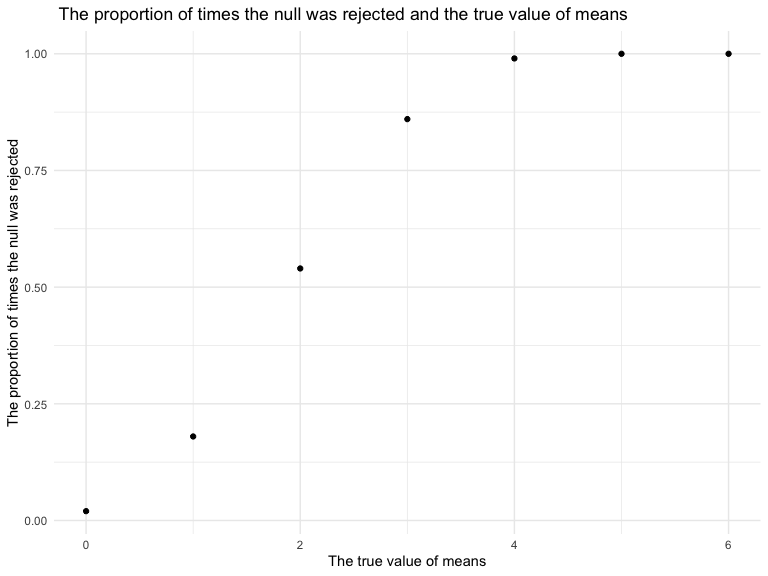
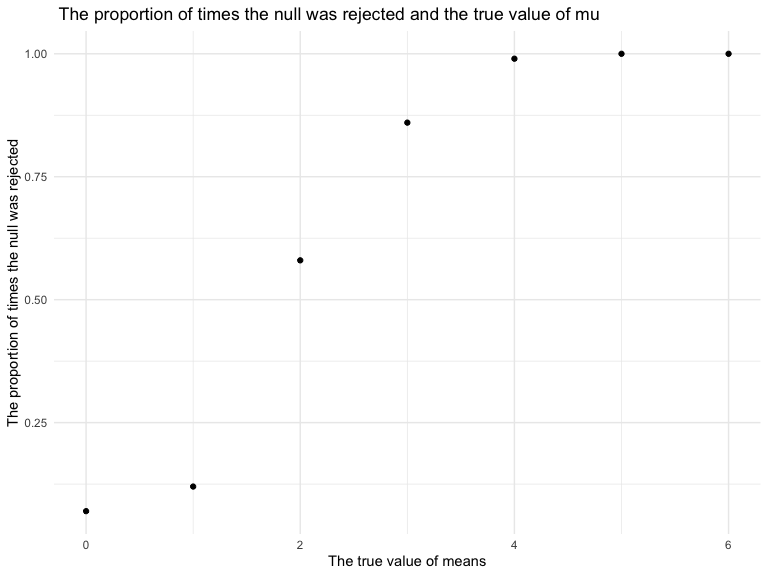
create plot of the average estimate of mu_hat and the true value of mu.

diff --git a/p8105_hw5_yc4016.md b/p8105_hw5_yc4016.md
@@ -197,16 +197,16 @@ norm_results
     ## # A tibble: 700 × 10
     ##       mu iterat…¹ estim…² stati…³ p.value param…⁴ conf.…⁵ conf.…⁶ method alter…⁷
     ##    <dbl>    <int>   <dbl>   <dbl>   <dbl>   <dbl>   <dbl>   <dbl> <chr>  <chr>  
-    ##  1     0        1  0.0498  0.0553   0.956      29  -1.79    1.89  One S… two.si…
-    ##  2     0        2 -0.243  -0.222    0.826      29  -2.49    2.00  One S… two.si…
-    ##  3     0        3 -1.34   -1.46     0.156      29  -3.22    0.541 One S… two.si…
-    ##  4     0        4  0.652   0.818    0.420      29  -0.979   2.28  One S… two.si…
-    ##  5     0        5 -1.04   -1.25     0.220      29  -2.73    0.654 One S… two.si…
-    ##  6     0        6 -0.427  -0.352    0.728      29  -2.91    2.06  One S… two.si…
-    ##  7     0        7  0.585   0.551    0.586      29  -1.59    2.76  One S… two.si…
-    ##  8     0        8 -0.492  -0.548    0.588      29  -2.33    1.34  One S… two.si…
-    ##  9     0        9 -0.653  -0.803    0.428      29  -2.31    1.01  One S… two.si…
-    ## 10     0       10 -0.0225 -0.0239   0.981      29  -1.95    1.91  One S… two.si…
+    ##  1     0        1 -0.416  -0.498   0.622       29  -2.12   1.29   One S… two.si…
+    ##  2     0        2 -0.266  -0.270   0.789       29  -2.28   1.75   One S… two.si…
+    ##  3     0        3 -0.0301 -0.0298  0.976       29  -2.09   2.03   One S… two.si…
+    ##  4     0        4  0.103   0.118   0.907       29  -1.69   1.89   One S… two.si…
+    ##  5     0        5 -1.36   -1.29    0.206       29  -3.50   0.790  One S… two.si…
+    ##  6     0        6 -1.28   -1.66    0.108       29  -2.87   0.300  One S… two.si…
+    ##  7     0        7  0.580   0.681   0.501       29  -1.16   2.32   One S… two.si…
+    ##  8     0        8 -0.114  -0.113   0.910       29  -2.16   1.94   One S… two.si…
+    ##  9     0        9  1.49    1.52    0.140       29  -0.519  3.50   One S… two.si…
+    ## 10     0       10 -1.62   -2.14    0.0407      29  -3.16  -0.0729 One S… two.si…
     ## # … with 690 more rows, and abbreviated variable names ¹iteration, ²estimate,
     ## #   ³statistic, ⁴parameter, ⁵conf.low, ⁶conf.high, ⁷alternative
 
@@ -221,7 +221,7 @@ plot1 =
     mutate (proportion_rejected = p_value_sum / n_sum) %>% 
   ggplot(aes(x = mu, y = proportion_rejected)) + 
   geom_point() + 
-  labs(title = " The proportion of times the null was rejected and the true value of means", 
+  labs(title = " The proportion of times the null was rejected and the true value of mu", 
        x = "The true value of means",
        y = "The proportion of times the null was rejected") 
 
@@ -229,3 +229,21 @@ plot1
 ```
 
 <img src="p8105_hw5_yc4016_files/figure-gfm/unnamed-chunk-8-1.png" width="90%" />
+
+#### Plot showing the average estimate of mu_hat and the true value of mu .
+
+``` r
+plot2 = 
+  norm_results %>%
+    group_by(mu) %>%
+    summarize(ave_estimate_mu_hat = mean(estimate)) %>%
+    ggplot(aes(x = mu, y = ave_estimate_mu_hat, group = mu)) + 
+    geom_point() +
+    labs(title = "The average estimate of mu_hat and the true value of mu", 
+         x = "The true value of mu", 
+         y = "The average estimate of mu_hat") 
+plot2
+```
+
+<img src="p8105_hw5_yc4016_files/figure-gfm/unnamed-chunk-9-1.png" width="90%" />
+\`\`\`
